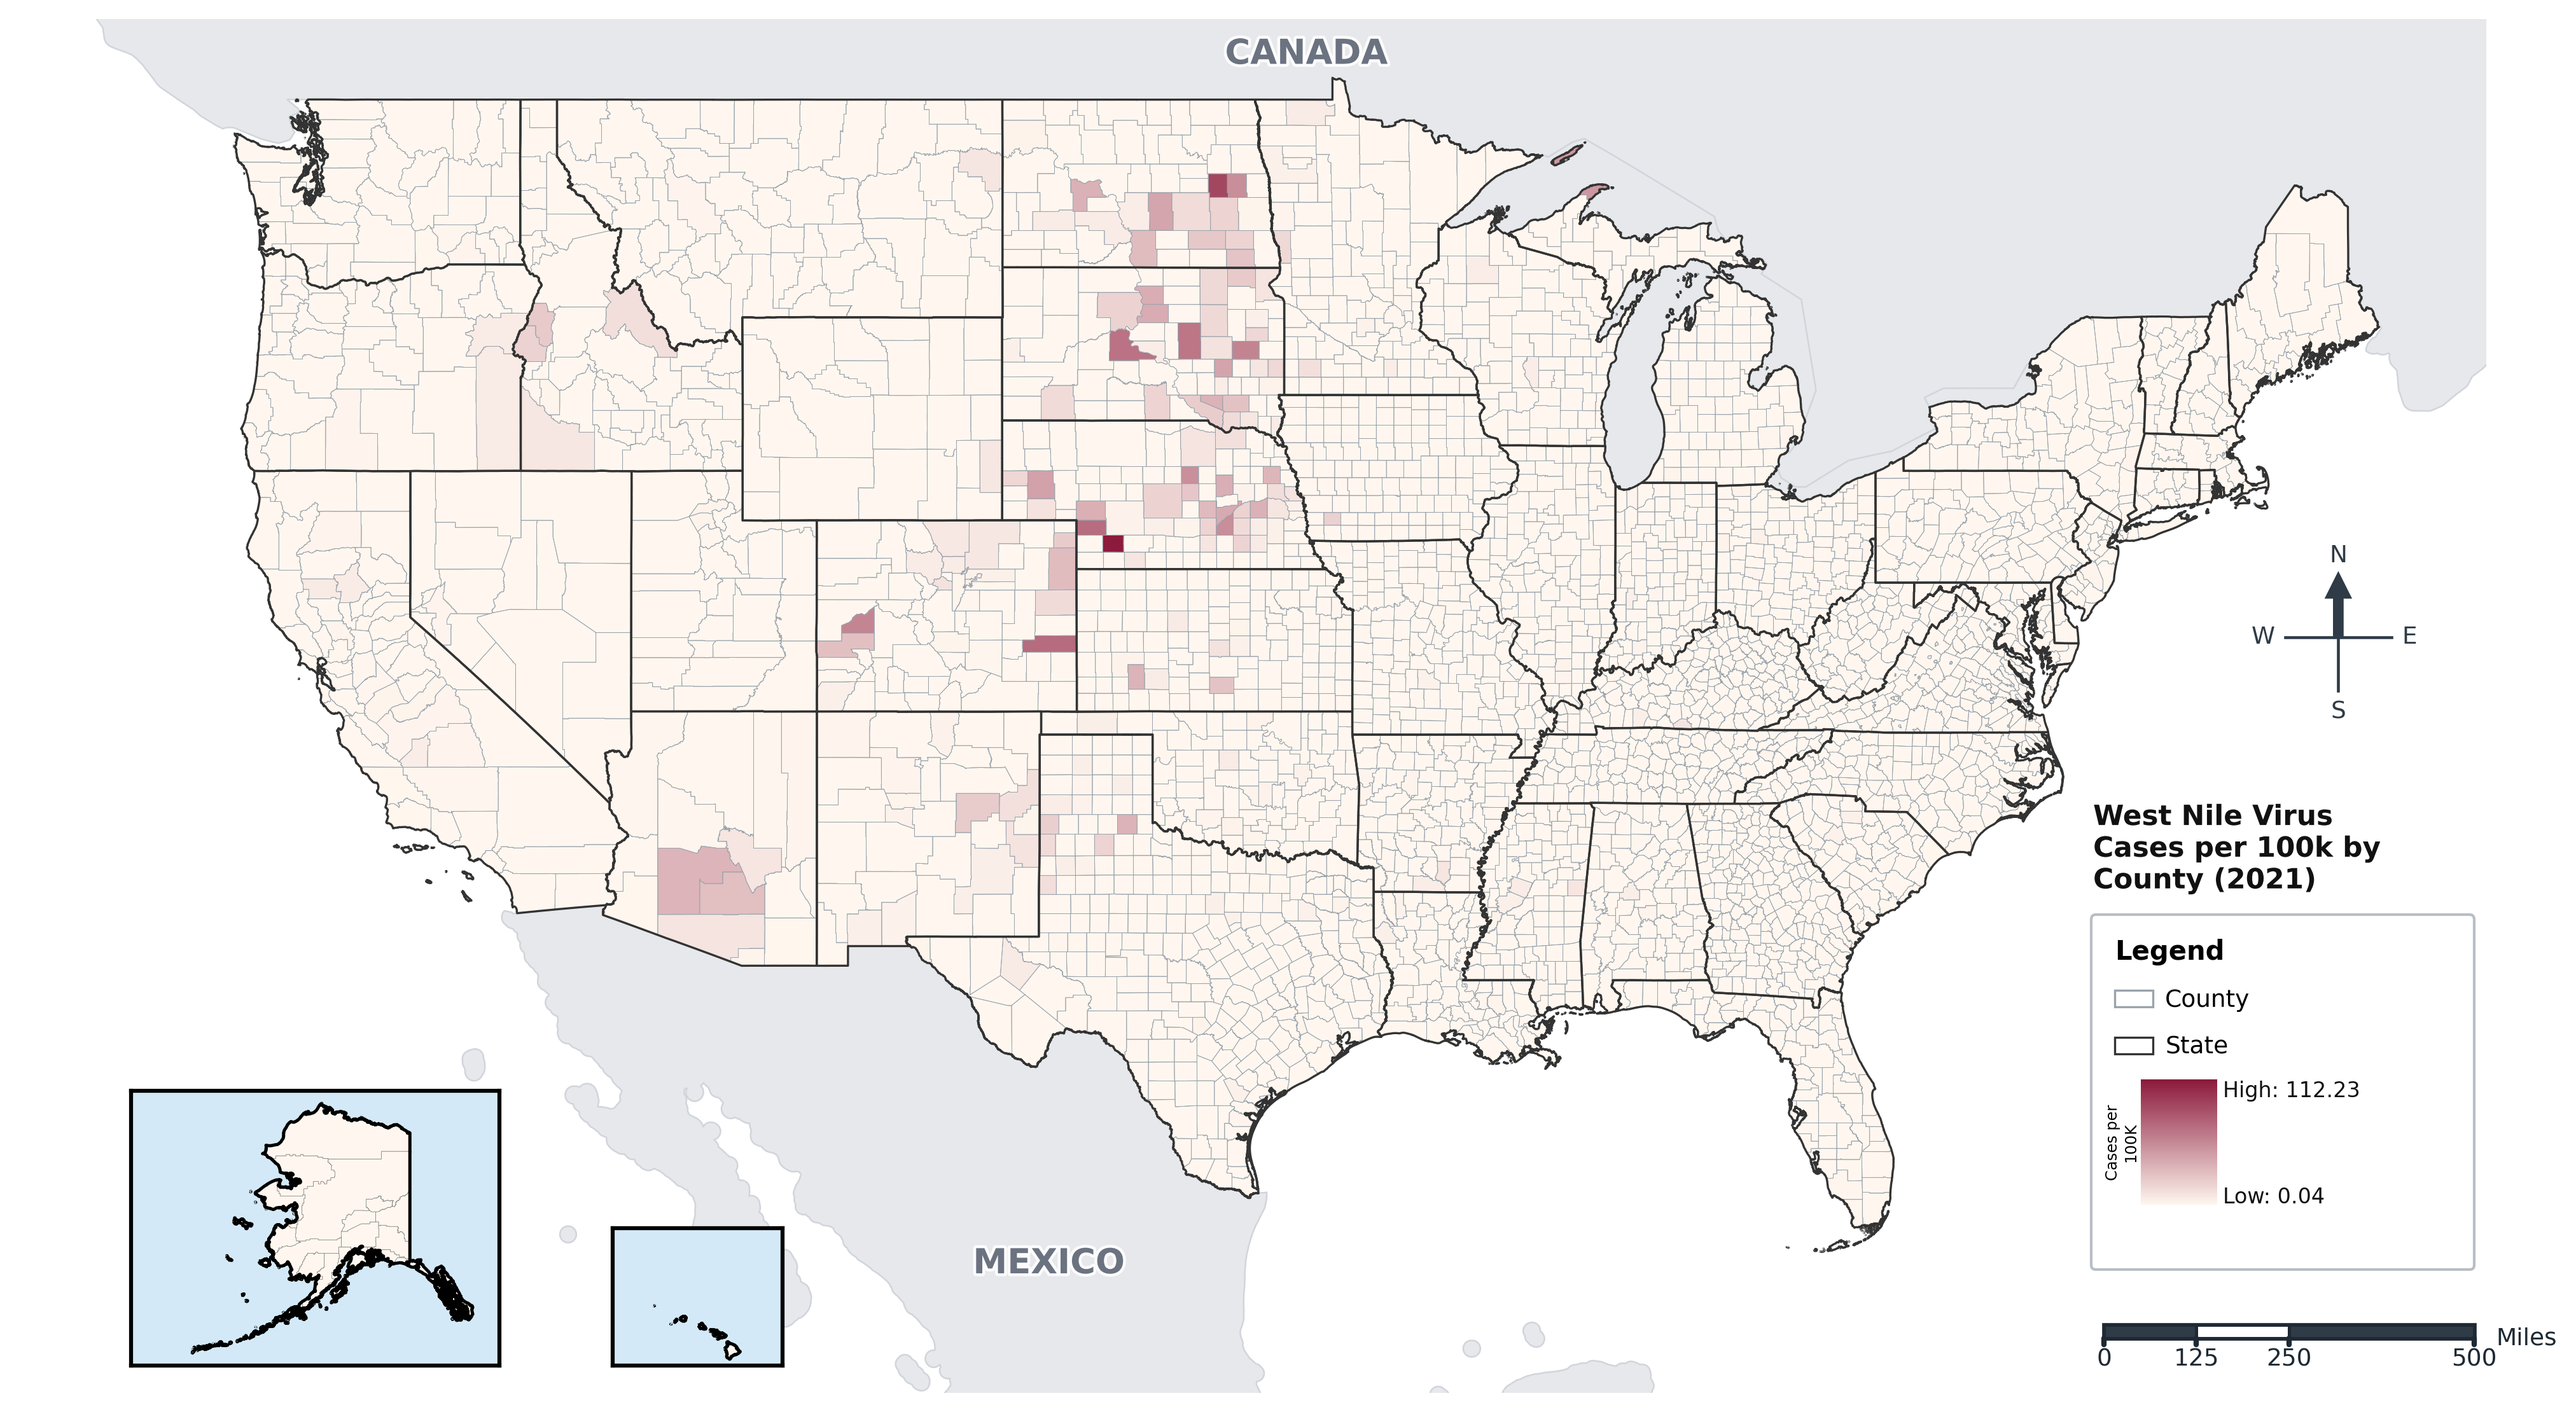
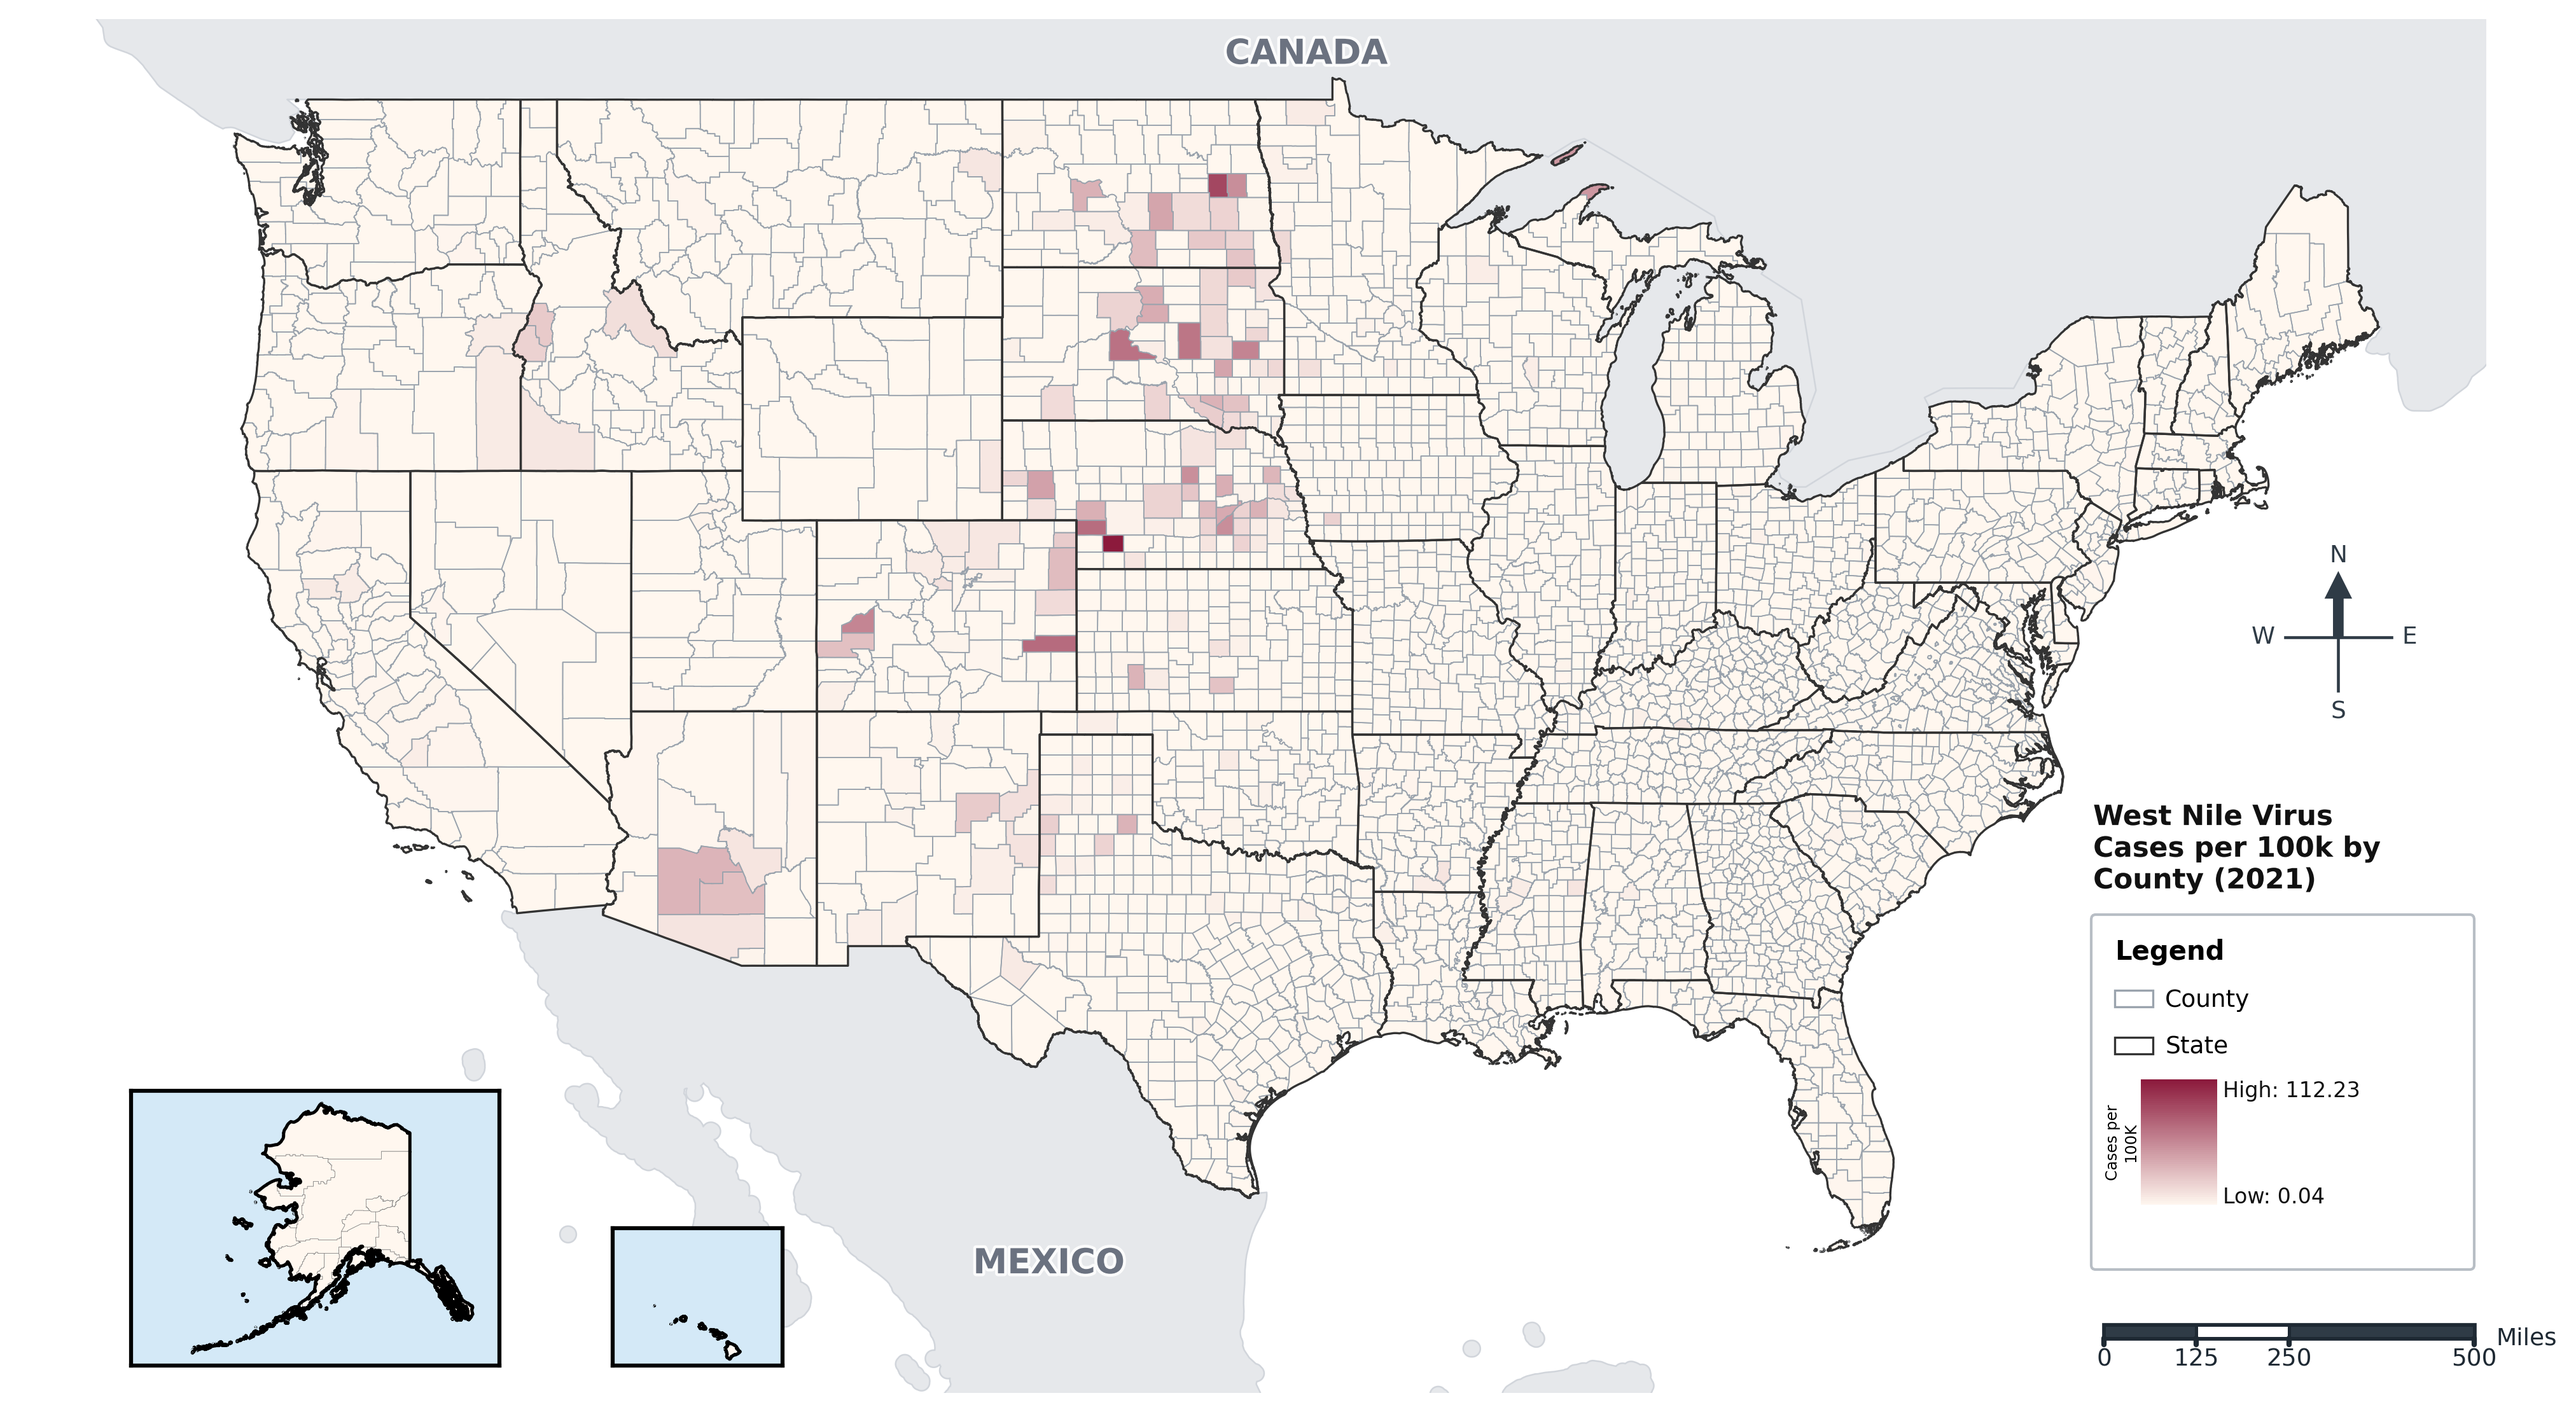
doubled county boundary linewidth from 0.2 to 0.4

diff --git a/notebooks/national_embeddings/maps.py b/notebooks/national_embeddings/maps.py
@@ -786,7 +786,7 @@ for year in range(2017, 2025):
     # this boundary changes according to year:
     #   2017-2022 -> use legacy boundaries for connecticut
     #   2023-2024 -> use new boundaries for connecticut planning regions
-    counties_to_plot.boundary.plot(ax=ax, edgecolor="#9AA3AD", linewidth=0.2, zorder=3.5)
+    counties_to_plot.boundary.plot(ax=ax, edgecolor="#9AA3AD", linewidth=0.4, zorder=3.5)
     
     # Country labels
     xmin, ymin, xmax, ymax = us_outline.total_bounds
